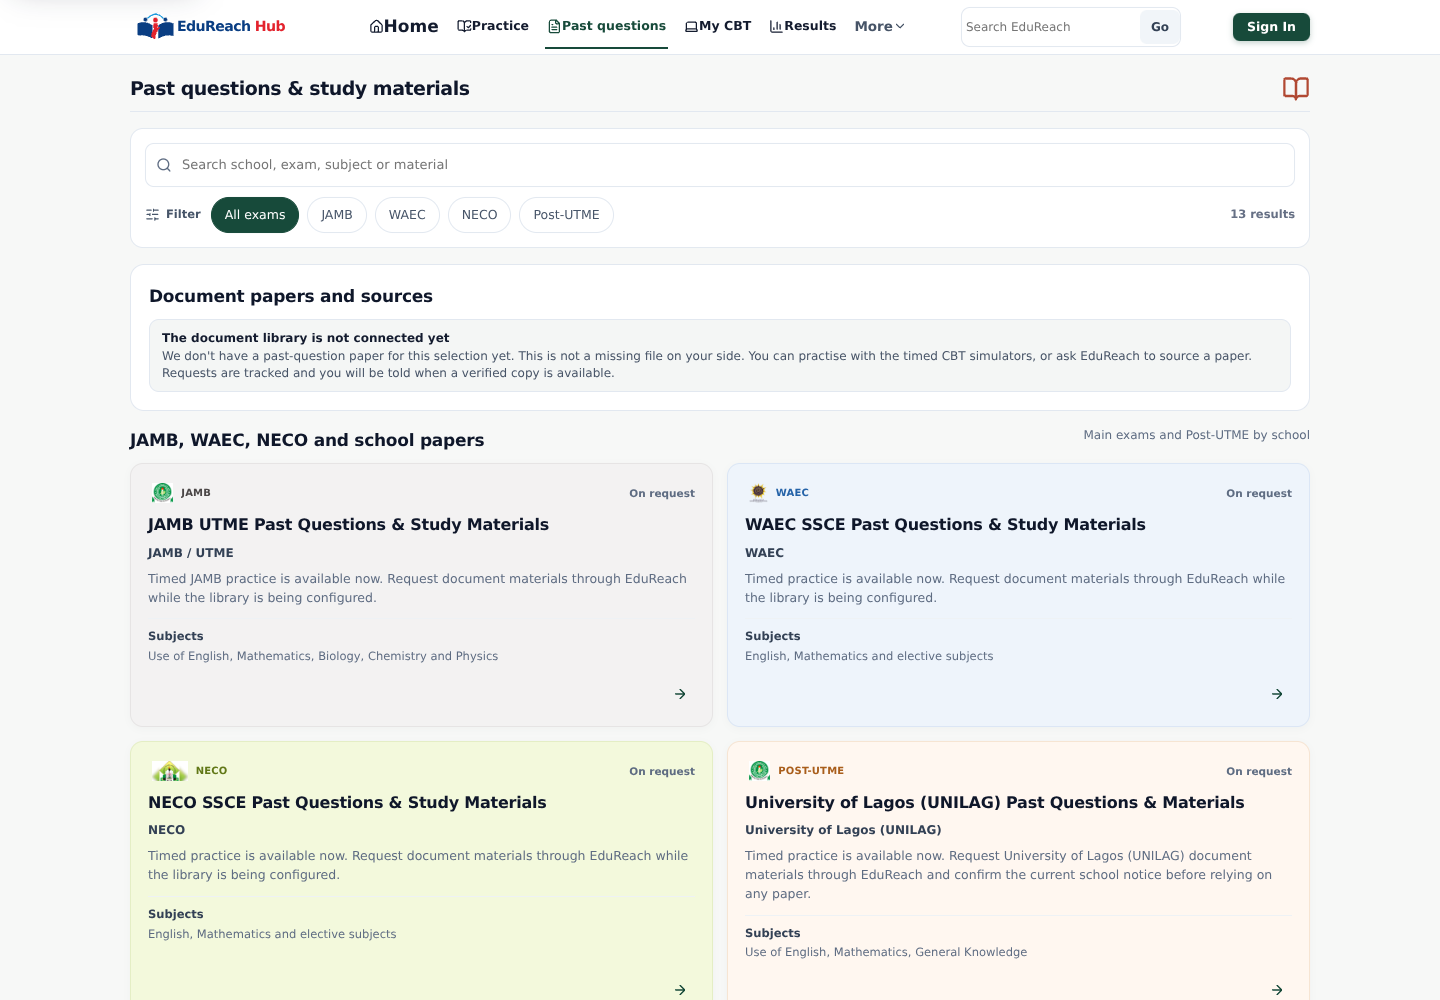
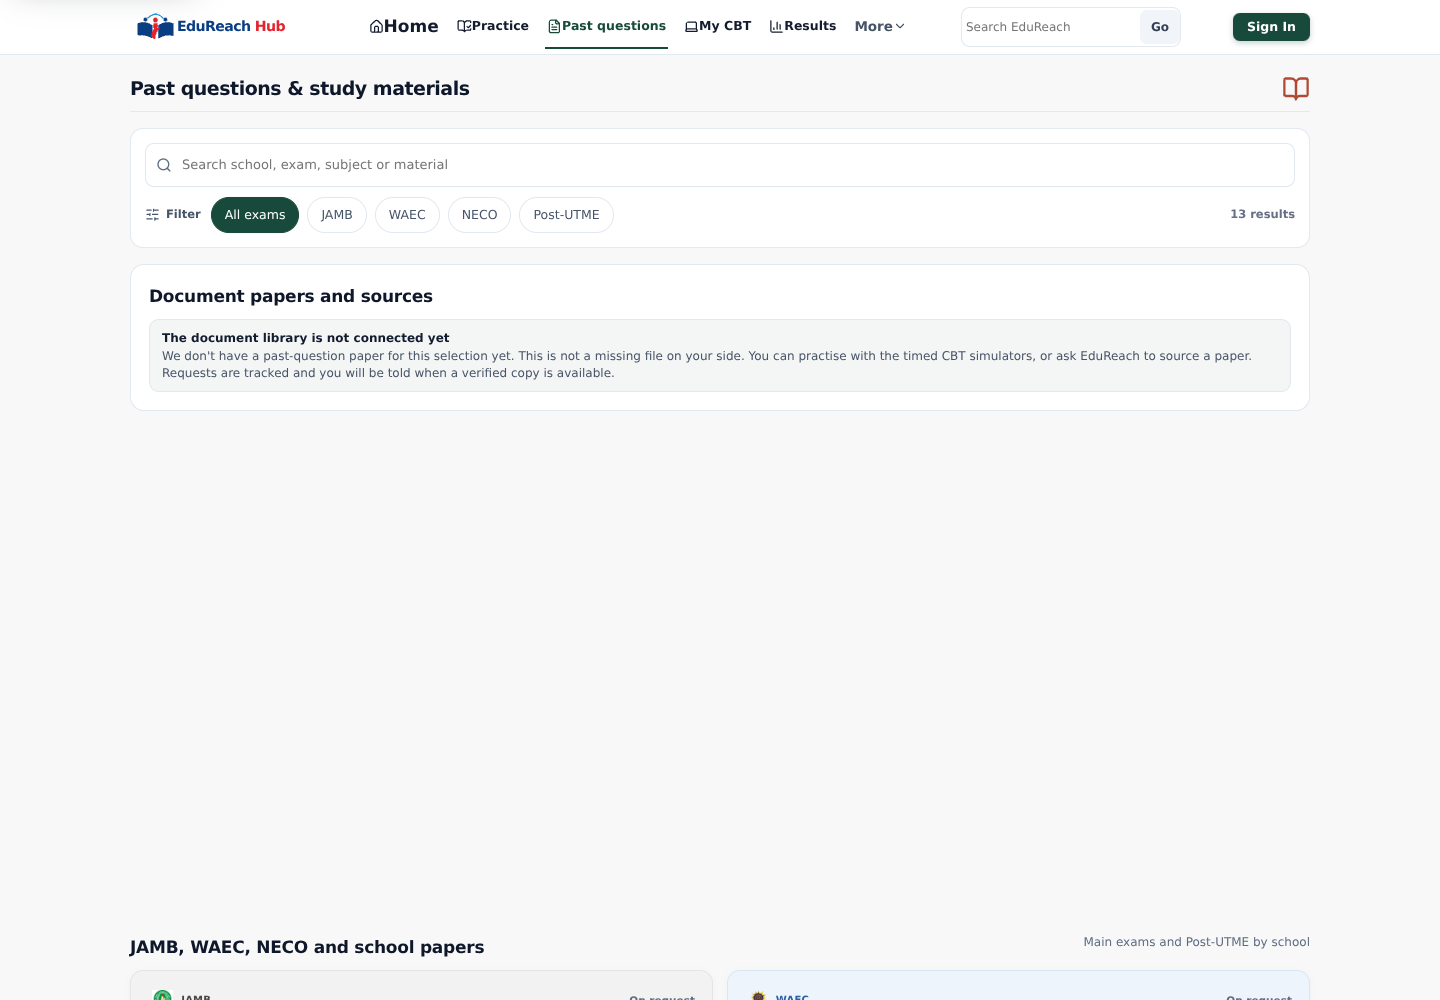
fix(ux-7): keep the library reservation; collapse caused CLS

diff --git a/src/edu-portal.css b/src/edu-portal.css
@@ -446,10 +446,6 @@ body.er-exam-mode{padding-bottom:0!important}
 .er-late-region--feed{--er-late-min:300px}       /* the four-card news row the home page shows */
 .er-late-region--feed-page{--er-late-min:450px}  /* the 5 rows its skeleton shows */
 .er-late-region--library{--er-late-min:670px}    /* 6 cards in two columns: 3x214 + 2x14 */
-/* UX-7: an empty or failed library is a sentence, not six reserved card slots.
-   The 670px floor under a one-line notice was the blank half-screen on
-   /past-questions in the unconfigured build. */
-.er-late-region--library:has(> .er-resource-block > :is(.er-inline-notice,.er-state)){--er-late-min:0}
 @media(max-width:700px){
   /* .er-library-grid is a single column here, so six cards are six rows tall */
   .er-late-region--library{--er-late-min:1350px}

diff --git a/docs/design/ux-7/PRODUCT-UX-CASE-STUDY.md b/docs/design/ux-7/PRODUCT-UX-CASE-STUDY.md
@@ -180,19 +180,13 @@ The student 390 capture shows the whole first viewport as an app screen: greetin
 
 ---
 
-## 6. Two additional defects found while reviewing the rendered product
+## 6. One additional defect found while reviewing the rendered product
 
-### 6.1 The empty past-question library reserved 670 px of blank space
-
-**BEFORE** — `/past-questions` measured 3392 px at 1440 and 7060 px at 390. A one-paragraph “document library is not connected yet” notice sat above roughly half a screen of empty space because the late-region floor was sized for six document cards.
-
-**Decision:** when the library region holds an empty notice or an error state, its reservation is 0. The floor still applies while loading and while documents exist.
-
-**AFTER** — [`past-questions-1440.png`](./evidence/after/past-questions-1440.png), [`past-questions-390.png`](./evidence/after/past-questions-390.png); document **3392 → 2885 px** at 1440 and **7060 → 5596 px** at 390. The study-material section now follows the notice immediately.
-
-### 6.2 The setup note was a section; it is now a sentence
+### The setup note was a section; it is now a sentence
 
 Covered in §5.4. The honesty note remains visible; only the teaching section is removed.
+
+The `/past-questions` library still reserves the footprint of six document cards while it waits for data, and the unconfigured preview therefore shows an empty block under its notice. Removing that reservation was attempted and reverted: it reduced 459 px of document height but introduced 0.2318 CLS in the production gate (empty state shorter than its skeleton), which is worse than the blank space. The reservation stays until a loading state can be sized to the empty state without moving content.
 
 ---
 
@@ -218,8 +212,8 @@ Covered in §5.4. The honesty note remains visible; only the teaching section is
 | `src/components/PageBar.tsx` | App-level routes no longer render a duplicate Back/title bar. |
 | `pages/ExamSetupPage.tsx` | “How this CBT session works” section deleted; honesty note moved into the heading. |
 | `src/styles/ux5-product.css` | Hero rules deleted; product-home, More menu, drawer labels and unified bottom-bar states added. |
-| `src/edu-portal.css` | Simulator floor 210 → 150 px; empty/failed library floor 0; bottom bar available ≤768 px; compact two-column footer ≤640 px. |
-| `tests/site-experience.test.ts`, `tests/cbt-experience.test.ts`, `tests/perf.test.ts`, `tests/home-activity.test.ts`, `tests/e2e/site.spec.ts`, `tests/e2e/jamb-subject-selection.spec.ts` | Contract updated to the UX-7 behaviour, including the unified bar, no hero, no guide and the empty-library floor. |
+| `src/edu-portal.css` | Simulator floor 210 → 150 px; bottom bar available ≤768 px; compact two-column footer ≤640 px. |
+| `tests/site-experience.test.ts`, `tests/cbt-experience.test.ts`, `tests/perf.test.ts`, `tests/home-activity.test.ts`, `tests/e2e/site.spec.ts`, `tests/e2e/jamb-subject-selection.spec.ts` | Contract updated to the UX-7 behaviour, including the unified bar, no hero, no guide and the reduced simulator floor. |
 | `scripts/perf-audit.ts` | Critical-path and total-JS caps raised to the measured UX-7 cost with headroom; see §9. |
 
 ---
@@ -233,14 +227,14 @@ All commands were run on this branch after the final source change.
 | `npm run typecheck` | **0 errors** |
 | `npm test` | **1069 passed, 0 failed** (1069), including 5 new home-activity rules |
 | `npm run build` | **success** |
-| `npm run perf:audit` | **all budgets pass**: entry 49.0/100 KB, Supabase 53.0/60, CSS 49.9/51, critical path 213.2/214, all chunks 365.4/366, largest image 41.2/64 |
+| `npm run perf:audit` | **all budgets pass**: entry 49.0/100 KB, Supabase 53.0/60, CSS 49.8/51, critical path 213.2/214, all chunks 365.4/366, largest image 41.2/64 |
 | `npm run a11y:audit` | **0 blocking**, 6 informational |
 | Playwright, full suite | **293 passed, 29 skipped** |
 | Playwright, `site.spec` + `a11y.spec` | **165 passed, 5 skipped** |
 | Browser overflow | **0** at 1440, 700, 390 and 320 |
 | Browser page errors | **0** on the captured public routes |
 
-**Performance budget note:** the critical path cap moved from 211 → 214 KB and total JS from 365 → 366 KB. The measured cost is the product home, the five-destination navigation and the familiar icons (+2.6 KB critical, +0.4 KB total). The entry chunk remains 49.0/100 KB and CSS 49.9/51 KB; no lazy route was made eager to buy the headroom. The cap is enforced at the new measured value, not removed.
+**Performance budget note:** the critical path cap moved from 211 → 214 KB and total JS from 365 → 366 KB. The measured cost is the product home, the five-destination navigation and the familiar icons (+2.6 KB critical, +0.4 KB total). The entry chunk remains 49.0/100 KB and CSS 49.8/51 KB; no lazy route was made eager to buy the headroom. The cap is enforced at the new measured value, not removed.
 
 **Honesty constraints**
 
